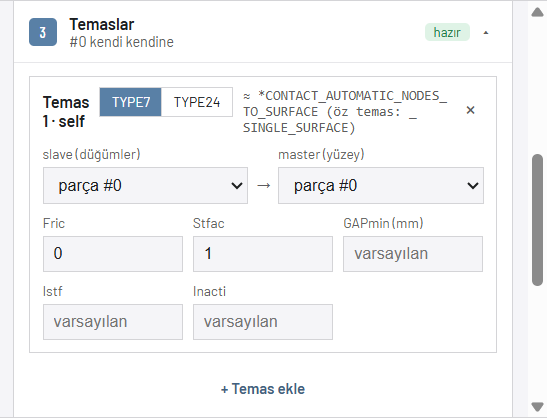
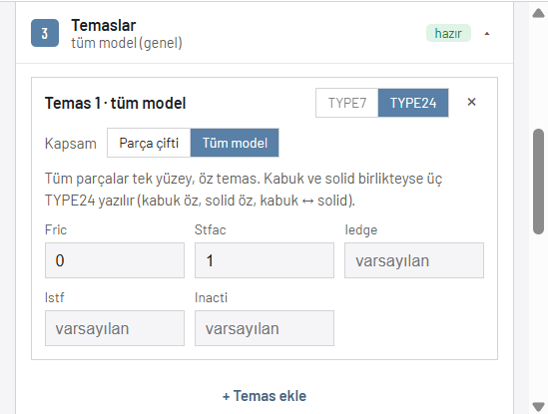
docs(crash): Belgeler ve BC rehberi bugünkü özelliklerle güncel
- Belgeler: Temaslar "Parça çifti / Tüm model" (genel temas) + yeni görsel; Çıktı ayarları "Ezilme mesafesi referansı"; Sonuçlar "Ezilme · mm / kN"
- CRASH_BC_GUIDE.md: all_parts / iedge, yay (springs), sönüm (damping), ezilme referansı (crush_ref), .k içe aktarma; panel düzeni güncel
- Düzeltme: "inacti = 0 → model patlar" yanlıştı; Radioss listing'i başlangıç penetrasyonlarını yok saydığını yazıyor (ölçüldü #376)

Changed region(s): [[0.0, 0.0, 1.0, 1.0], [0.7755, 0.058, 0.8376, 0.1159], [0.8686, 0.058, 0.8996, 0.087]]

diff --git a/frontend/src/docs/crashDoc.ts b/frontend/src/docs/crashDoc.ts
@@ -172,7 +172,7 @@ export const CRASH_DOC: DocSection[] = [
     title: "4 · Crash → 3 Temaslar",
     intro: "Temas tanımlanmazsa parçalar birbirinin içinden geçer. Aynı parça iki tarafta = öz temas (katlanan kutu).",
     image: IMG("04-temaslar.png"),
-    imageCaption: "TYPE7 öz temas (#0 ↔ #0) ve bayraklar.",
+    imageCaption: "Temas kartı: kapsam Parça çifti / Tüm model (genel temas, TYPE24) ve bayraklar.",
     items: [
       { name: "TYPE7", what: "Düğüm → yüzey teması (slave düğümleri master yüzeye çarpar). Genel amaçlı, hızlı.", when: "Kutunun kendi katları (öz temas), küre → plaka, impaktör → kiriş.", card: "/INTER/TYPE7" },
       { name: "TYPE24", what: "Yüzey ↔ yüzey (kenar–kenar dahil). İnce kabuk katlanırken kenarların birbirine girmesini daha iyi yakalar.", card: "/INTER/TYPE24" },
@@ -180,6 +180,7 @@ export const CRASH_DOC: DocSection[] = [
       { name: "Stfac", what: "Temas rijitliği ölçeği." },
       { name: "GAPmin (TYPE7) / Iedge (TYPE24)", what: "En küçük temas boşluğu (mm) / kenar teması bayrağı." },
       { name: "Istf, Inacti", what: "Rijitlik hesap yöntemi; başlangıç penetrasyonunun ele alınışı. Boş = Radioss varsayılanı." },
+      { name: "Kapsam: Parça çifti / Tüm model", what: "Tüm model = genel temas: tüm kabuk parçalar tek yüzey, tüm katı parçaların dış yüzü ayrı yüzey; yalnız TYPE24 (öz temas dahil; kabuk + katı varsa üç arayüz). Parça seçimi gizlenir, bayraklar aynı. Çift temaslarla birlikte kullanılabilir. Not (kutu ezme, 1.24d): parçalar arası başlangıç boşluğu temas boşluğundan ((t₁ + t₂)/2) küçükse Radioss bunu başlangıç penetrasyonu sayıp yok sayar — starter listing'inde yazar (veri).", card: "/INTER/TYPE24" },
     ],
   },
   {
@@ -257,6 +258,7 @@ export const CRASH_DOC: DocSection[] = [
       { name: "Temas kanalları", what: "Temas çiftlerindeki kuvvet.", card: "/TH/INTER" },
       { name: "Parça kanalları", what: "IE, KE, HE, momentum, ağırlık merkezi, hız …", card: "/TH/PART" },
       { name: "Kesit kanalları + Kesitler", what: "Modelin içinden geçen sanal düzlem (M, M1, M2) — oradan geçen iç kuvvet/moment.", when: "S-kiriş, ROPS (dikmelerden kuvvet), Hopkinson giriş çubuğu.", card: "/TH/SECTIO" },
+      { name: "Ezilme mesafesi referansı", what: "Çıktı ayarlarının altında: Yok / Kütle-kızak kartı (ana düğüm) / bölge (düğüm ortalaması). Seçilince deck'e ayrı bir düğüm kanalı yazılır (DX DY DZ) ve koşu sonunda δ(t) = arka ucun çarpma yönündeki yer değiştirmesi hesaplanır (ezilme +). Rijit arka uçta iki seçim aynı sonucu verir (crash box + 100 kg kızak: 100.95 mm). Yok = ezilme sonuçları yazılmaz.", card: "/TH/NODE" },
       { name: "Düğüm kanalları", what: "Seçili düğümlerin yer değiştirme / hız / ivmesi.", card: "/TH/NODE" },
     ],
   },
@@ -272,6 +274,7 @@ export const CRASH_DOC: DocSection[] = [
       { name: "Hata #n (kırmızı bant)", what: "Koşu hatayla biterse durum failed (kırmızı) ve kodlu hata: #1 çözüm ıraksadı (enerji NaN; Radioss yine NORMAL TERMINATION yazabilir — eğri ve animasyon ıraksama anına kadar açılır), #2 starter hatası (ERROR ID'ler), #3 çözücü anormal sonlandı (çıkış kodu ≠ 0), #4 zaman aşımı, #5 OpenRadioss bulunamadı, #9 sınıflanmamış. Hatalı koşu DOE / ML korpusuna girmez." },
       { name: "Enerji · J grafiği", what: "İç enerji (deformasyonla yutulan), kinetik, hourglass, temas enerjisi, dış iş ve toplam enerji (IE + KE + dönme + HG − dış iş) zamana göre. Global TH sütunları; geçmişteki 📈 penceresinde de aynı seriler." },
       { name: "Enerji özeti", what: "İç / kinetik enerji son ve maks; hourglass son · HG/IE %; temas son · temas/IE %; dış iş son; enerji dengesi |ΔE|/E %. Değerler veridir; kabul eşiği mühendisin." },
+      { name: "Ezilme · mm / kN", what: "Ezilme referansı seçilen koşuda: F–δ grafiği (duvar kuvveti, ezilme mesafesine göre; δ_maks'a kadar yükleme kolu), ezilme son / maks (mm), duvar işi ∫F dδ (J), ortalama ezilme kuvveti = duvar işi / δ_maks (kN) ve karşılaştırma için IE_son / δ_son (kN). İkisinin farkı hourglass, sürtünme ve öz temas enerjisinden — veri. Ör. crash box 3 mm + 100 kg kızak, 20 ms: δ 100.9 mm, iş 4783 J, F_ort 47.4 kN, IE / δ 42.8 kN. Karşılaştırma tablosunda da üç satır." },
       { name: "Geri sekme · mm", what: "5 · Sonuçlar'da koşu animasyon kareleri yazdıysa: kare başına en büyük yer değiştirme, iki tanım yan yana. Mutlak |u| — ilk konuma göre, rijit öteleme dahil (tabanı sabit parçada deformasyon; serbest parçada yolu ölçer). Öteleme çıkarılmış |u − ū| — parçanın o karedeki ortalama ötelemesi çıkarılır, rijit dönme kalır. Tabloda model ve parça satırları (mesh parça no): tepe ve zamanı, son, geri sekme = tepe − son, oran. Eğri |u|max–t animasyon karelerinden (yüzey düğümleri), model ya da parça seçilir. Tepe son karedeyse geri sekme 0. Koşuyu sekmeye kadar sürdürmek ve hangi tanıma bakılacağı mühendisin." },
       { name: "RWALL Fmax / impuls", what: "Rijit duvar tepe kuvveti (kN) ve toplam impuls (N·s). Kızakta impuls = m·Δv.", card: "/TH/RWALL" },
       { name: "Temas kuvveti", what: "Duvarsız modellerde kuvvet temastan okunur (contact_1_force…).", card: "/TH/INTER" },

diff --git a/docs/CRASH_BC_GUIDE.md b/docs/CRASH_BC_GUIDE.md
@@ -86,10 +86,25 @@ TYPE24 kenar–kenar teması da yakalar; ince kabuklar katlanırken (crash
 box akordeon ezilmesi) kenarlar birbirine girebiliyor, orada TYPE24
 daha güvenli.
 
+| `all_parts` | Genel temas (yalnız TYPE24): tüm parçalar, öz temas dahil; `master_part` / `slave_part` verilmez | — |
+| `iedge` | TYPE24 kenar–kenar teması | 0 |
+
+**Genel temas (`all_parts: true`, 1.24a):** tüm kabuk parçalar tek yüzey
+(`/SURF/PART`), tüm katı parçaların dış yüzü ayrı yüzey; kabuk + katı varsa
+üç TYPE24 arayüzü (kabuk öz, katı öz, kabuk ↔ katı). Çift temaslarla birlikte
+kullanılabilir. LS-DYNA karşılığı `*CONTACT_AUTOMATIC_SINGLE_SURFACE`.
+
 **`inacti` neden önemli:** Mesh'te parçalar başlangıçta hafifçe iç içe
-olabilir. 0 bırakırsan çözücü ilk adımda büyük bir itme kuvveti üretir
-ve model patlar. Penetrasyon şüphesi varsa bu bayrağı değiştirmek
-gerekir.
+olabilir. TYPE24'te `inacti = 0` iken Radioss bu başlangıç penetrasyonlarını
+**yok sayar** — starter listing'i "INACTI = 0 ⇒ THESE PENETRATIONS (NOT THE
+TINY ONES) WILL BE IGNORED" yazar ve o çiftler temas dışında kalır (ölçüldü,
+kutu ezme #376: 847 penetrasyon yok sayıldı, kutu tabana 2.5 mm girdi).
+Kabuklar arası temas boşluğu ≈ (t₁ + t₂)/2; başlangıç aralığını bundan büyük
+tutmak (kutu ezmede taban boşluğu 1.0 mm) penetrasyonu baştan önler.
+
+**`iedge` (kenar–kenar):** katlanan ince kabukta kenarlar birbirini kesebilir;
+kenar teması kapalıyken (#376) çarpıcı kenarı ince kapağın içinden geçti, `iedge = 1`
+ile (#377) başlangıç penetrasyonu ve bu geçiş görülmedi (kutu kaydıktan sonrası ölçülmedi).
 
 ---
 
@@ -204,6 +219,33 @@ LS-DYNA: `*SECTION_SPH` + `*ELEMENT_SPH`
 
 ---
 
+## 11a. Yay — `springs[]` (`/SPRING` + `/PROP/TYPE4`, 1.24b)
+
+İki uç arası eksenel doğrusal yay. Uç: Kütle / kızak kartının ana düğümü
+(`rigid_body`) ya da uzayda nokta (`point`, mm; `fixed` ise altı serbestlik
+kilitli). `k_n_per_mm` (deck'te kN/mm), `c_n_s_per_mm` sönüm, `mass_kg`; `th`
+açıksa `/TH/SPRING` (FX FY FZ). LS-DYNA: `*ELEMENT_DISCRETE` + `*SECTION_DISCRETE`.
+
+## 11b. Sönüm — `damping` (`/DAMP`, 1.24c2)
+
+Rayleigh sönümü C = α·M + β·K. `alpha_per_s` (1/s), `beta_s` (s); deck'e model
+birimiyle (α/1000 1/ms, β·1000 ms). `part_ids` boş = tüm parçalar;
+`t_start_ms` / `t_stop_ms` (0 = koşu sonu). α kütle orantılı (rijit hareketi de
+yavaşlatır), β rijitlik orantılı (yüksek frekans; kararlı Δt küçülür). Ölçülen
+(seken LAW1 kutu): β 1e-6 s → Δt_min 5.4e-4 → 3.1e-4 ms; β 1e-5 s aynı sonuç
+(listing'de uyarı yok — Radioss β'yı sınırlıyor olabilir, doğrulanmadı).
+LS-DYNA: `*DAMPING_PART_MASS` (α) + `*DAMPING_PART_STIFFNESS` (β).
+
+## 11c. Ezilme referansı — `crush_ref` (C8b)
+
+`rigid_body` (ad → ana düğüm) ya da `region` (bölge düğümleri, ortalama);
+`direction` boşsa ilk hız yönü. Deck'e ayrı `/TH/NODE/8` (DX DY DZ). Sonuç:
+`crush_mm` eğrisi, `crush_final_mm`, `crush_max_mm`, `crush_work_j` = ∫|F_duvar| dδ
+(δ_maks'a kadar), `mean_crush_force_kn` = iş / δ_maks, `mean_crush_force_ie_kn`
+= IE_son / δ_son. Duvarsız senaryoda yalnız IE oranı.
+
+---
+
 ## 12. Malzeme ve eleman kartı — `model`
 
 | alan | anlamı | OpenRadioss |
@@ -303,14 +345,36 @@ Crash paneli üç akordeon grubunda (Claude Design "Crash BC Sidebar"):
    Viewport'ta parçalar role göre renklenir (hareketli altın, sabit
    kırmızı, serbest mor); "SINIR KOŞ." düğmesi işaretleri ve renkleri
    gizler.
-3. **Temaslar** — isteğe bağlı TYPE7 / TYPE24 satırları.
+3. **Temaslar** — isteğe bağlı TYPE7 / TYPE24 satırları; kapsam "Parça çifti"
+   ya da "Tüm model" (genel temas, TYPE24).
 4. **Ek tanımlar** — bölgeyi kilitle, kütle / kızak (rayda seçeneği),
-   sabit hızla it, parçaya ayrı ilk hız; hazır kurulumlar (Kızak testi,
-   Ankastre kenar).
+   sabit hızla it, parçaya ayrı ilk hız, ek kütle, yay; hazır kurulumlar
+   (Kızak testi, Ankastre kenar).
+
+Gruplardan sonra (2026-10-15 güncel): **Uzman ayarları**, **Çözüm kontrolü**
+(süre, zaman adımı kartı, Rayleigh sönümü) ve **Çıktı ayarları** (kayıt aralığı,
+/TH kanalları, kesitler, ezilme mesafesi referansı).
 
 "LS-DYNA karşılıklarını göster" anahtarı açıkken kart adlarının yanında
 yaklaşık LS-DYNA keyword'ü görünür (`frontend/src/lib/dynaKeywords.ts`).
 
 Eleman formülasyonu ve hourglass "Uzman ayarları"nda (son koşunun HG/IE
-değeri orada); yerçekimi 1 · Çarpma'da; çıktı kartları 5 · Sonuçlar'da. Malzeme kanunu ve /FAIL 3 · Malzeme adımında. Koşu sonucu
-5 · Sonuçlar'da, koşu geçmişi alttaki dock'ta.
+değeri orada); yerçekimi 1 · Çarpma'da; çıktı kartları 4 · Crash → Çıktı
+ayarları'nda (CFC filtresi koşudan sonra 5 · Sonuçlar'da). Malzeme kanunu,
+/FAIL ve kütüphane Johnson–Cook seti 3 · Malzeme adımında. Koşu sonucu
+(enerji, geri sekme, ezilme) 5 · Sonuçlar'da, koşu geçmişi ve karşılaştırma
+alttaki dock'ta.
+
+---
+
+## 16. LS-DYNA keyword içe aktarma (.k / .dyn, 1.21)
+
+Sol paneldeki "⇪ LS-DYNA içe aktar" düğmesi. Kendi çeviricimiz okur →
+OpenRadioss kartları; LS-DYNA kurulmaz / çalıştırılmaz, keyword yazılmaz
+(`docs/LICENSING.md`). Birim çarpanları (uzunluk → mm, kütle → kg, zaman → s)
+mühendisten. Çeviri raporu önce okunur (uyarılar, atlanan keyword ve satırlar
+üstte); onaydan sonra koşu `POST /crash/import/dyna/{id}/solve`. Koşu
+geometrisiz kaydedilir (`crash_runs.import_id`), ML korpusuna girmez.
+Çevrilen keyword'ler: *NODE, *ELEMENT_SHELL / SOLID, *PART, *SECTION_*,
+*MAT_024 / 001 / 020, temaslar (N2S → TYPE7, S2S → TYPE24), *BOUNDARY_SPC,
+*INITIAL_VELOCITY, *RIGIDWALL_PLANAR, *LOAD_BODY, *CONTROL_TERMINATION.
